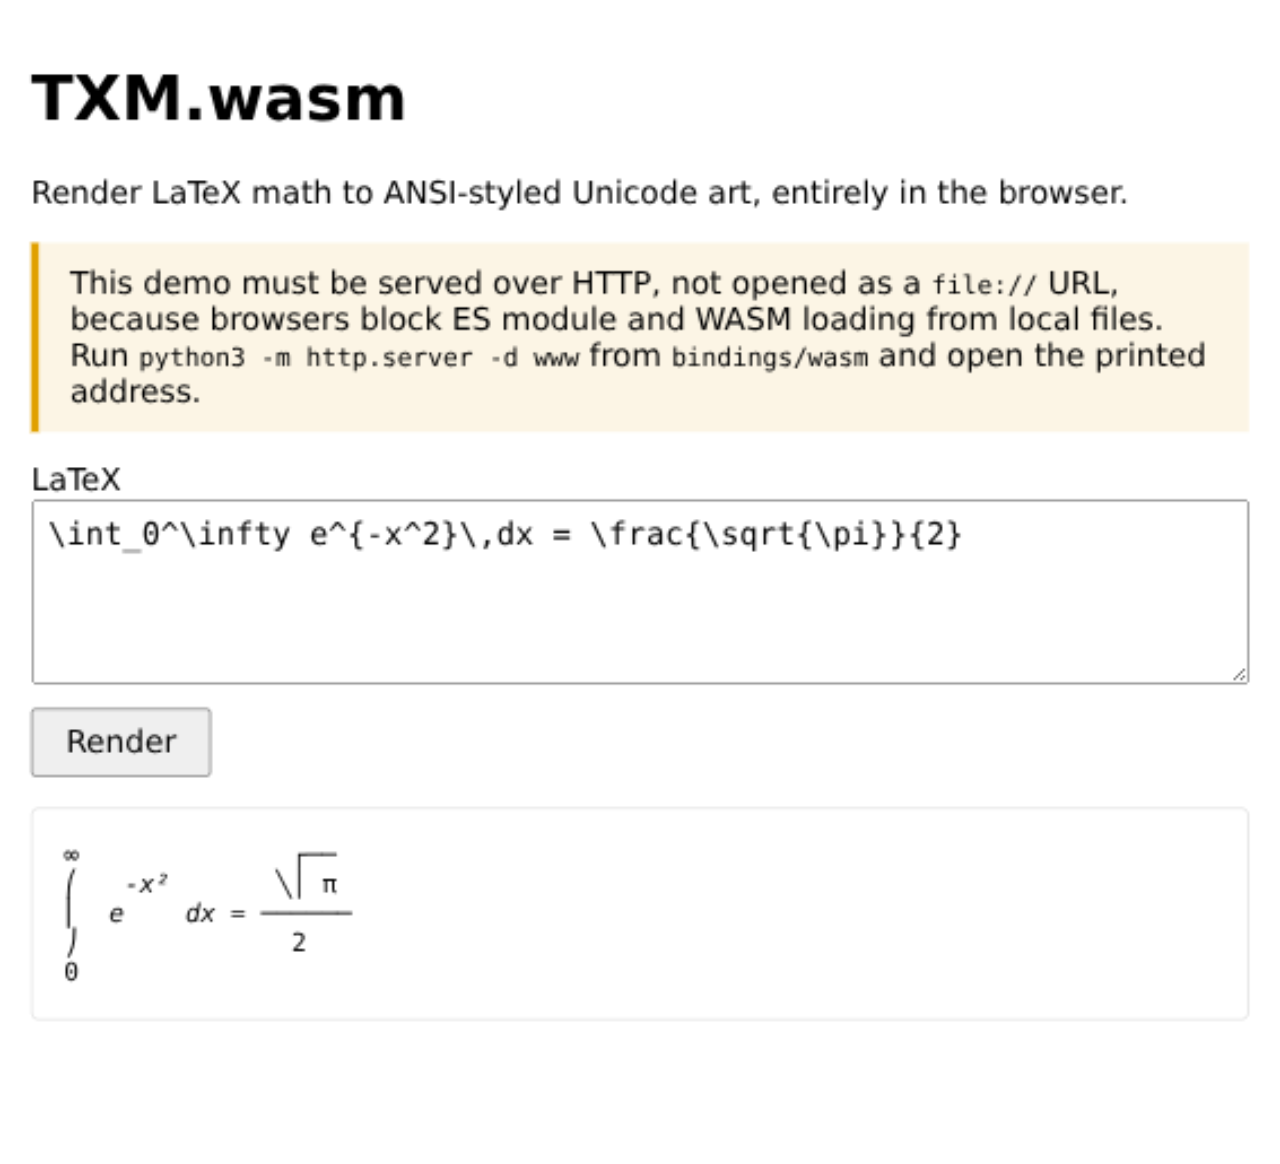
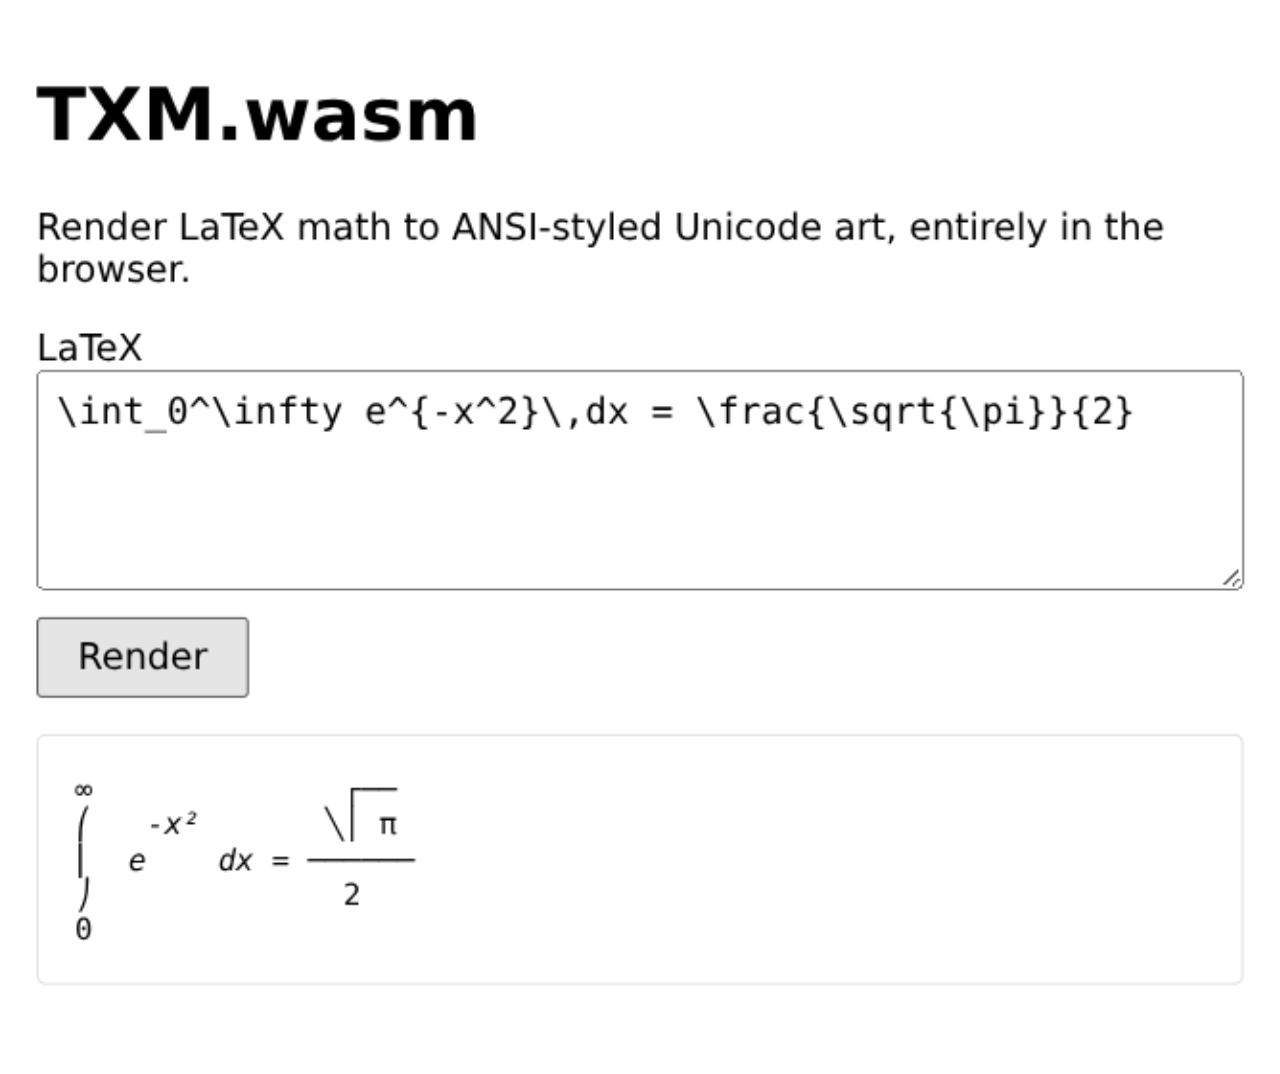
fix(wasm): hide the HTTP note once the module loads
The note still explains the file:// failure case when loading fails, but
disappears after init() succeeds so the working demo stays clean. Refresh
the README screenshot at a 2x pixel density.

Changed region(s): [[0.0, 0.0615, 1.0, 0.676], [0.0312, 0.7067, 0.3125, 0.8911], [0.9375, 0.4302, 1.0, 0.5838]]

diff --git a/bindings/wasm/www/main.js b/bindings/wasm/www/main.js
@@ -115,4 +115,9 @@ function draw() {
 document.getElementById('render').addEventListener('click', draw);
 
 await init();
+
+// The module loaded, so the page is being served over HTTP. The note only
+// matters when loading fails, which is why it lives in the HTML instead of
+// being rendered from JavaScript.
+document.getElementById('http-note').hidden = true;
 draw();

diff --git a/bindings/wasm/www/index.html b/bindings/wasm/www/index.html
@@ -74,7 +74,7 @@
     <h1>TXM.wasm</h1>
     <p>Render LaTeX math to ANSI-styled Unicode art, entirely in the browser.</p>
 
-    <p class="note">
+    <p class="note" id="http-note">
       This demo must be served over HTTP, not opened as a
       <code>file://</code> URL, because browsers block ES module and WASM
       loading from local files. Run
